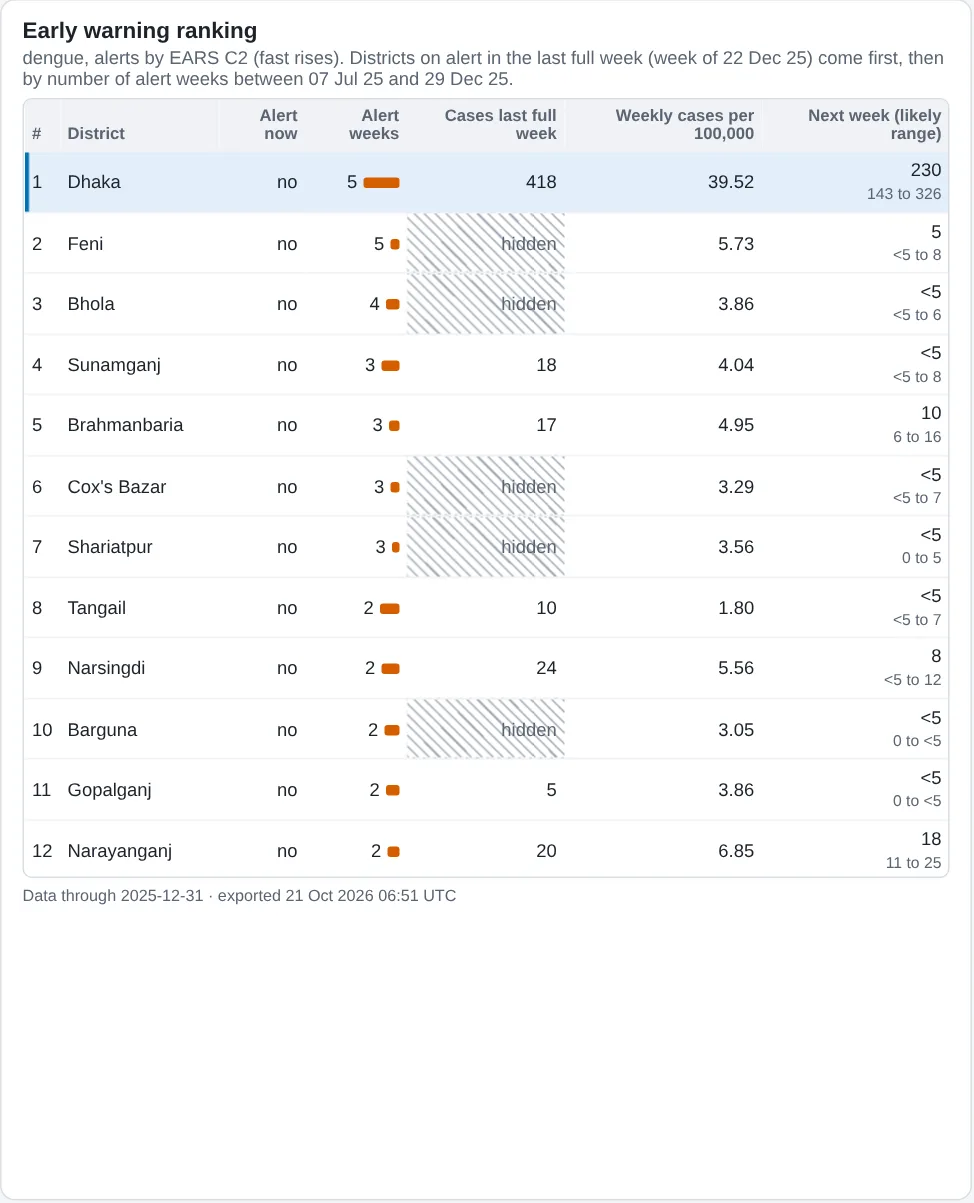
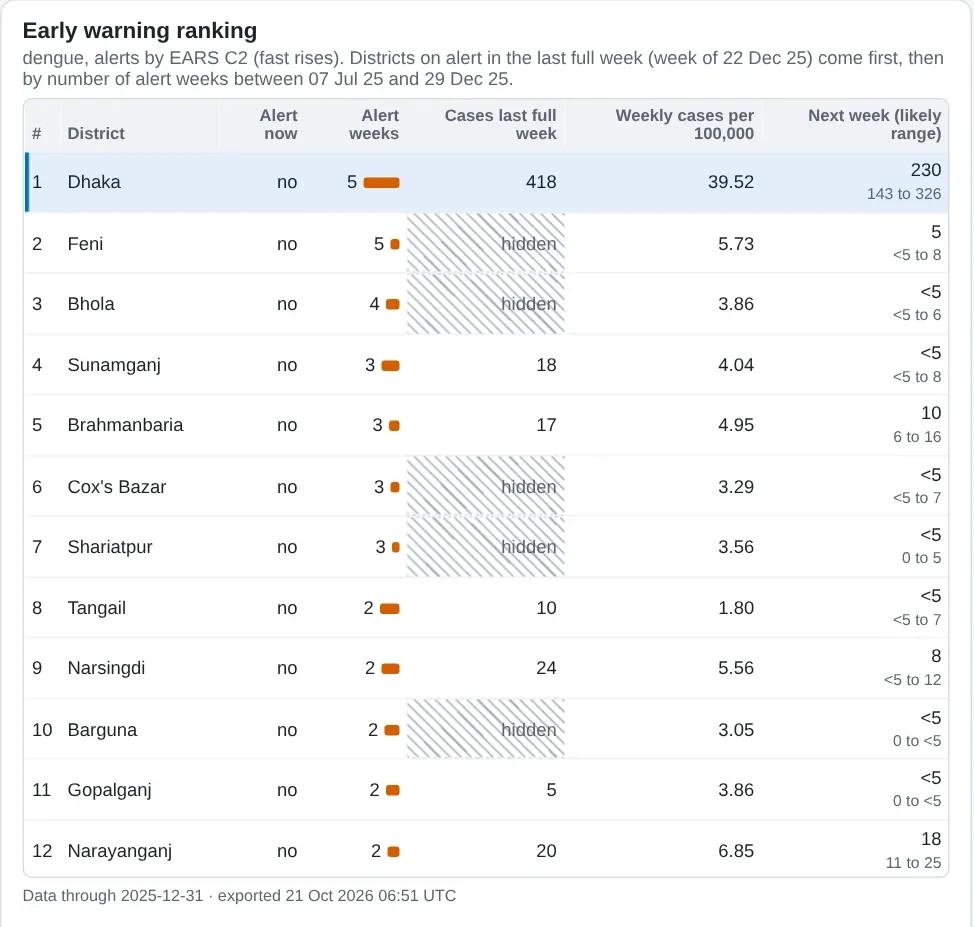
Equity floor: state that it cannot protect districts with missing reports; fit slide 26 screenshot

diff --git a/script-content.js b/script-content.js
@@ -175,9 +175,9 @@ window.EPI_SCRIPT = [
       "[SHOW click Chattogram on the map]",
       "When I click Chattogram, the weekly chart, the seasonal pattern and the allocation all switch to Chattogram.",
       "[NEXT SLIDE] [then back to the browser: drag on the lower time strip]",
-      "If I drag here, every view follows the new time range. The blue band is the forecast with its eighty percent range. We show the band, not one line, because a planner needs to know how sure we are.",
+      "If I drag here, every view follows the new time range. The blue band is the forecast with its eighty percent range. A planner needs to know how sure we are.",
       "[SHOW the hatched cells, then move the budget and alpha sliders]",
-      "Striped cells are hidden counts under five. And in the what-if panel, when I change the budget or alpha, the plan updates at once. The browser doesn't solve anything. We solved the plan ahead of time for each budget and alpha on a grid, and the page just looks up the answer.",
+      "Striped cells are hidden counts under five. And in the what-if panel, when I change the budget or alpha, the plan updates at once. The plan was solved ahead of time on a grid, and the page just looks it up.",
     ],
   },
   {
@@ -192,7 +192,7 @@ window.EPI_SCRIPT = [
     paras: [
       "[NEXT SLIDE]",
       "On privacy. Patient IDs are hashed with a secret key before anything reaches gold, and exact age becomes an age band. Every count under five is hidden. Where needed we hide a second cell too, so nobody can get the small number back by subtracting from a total.",
-      "There's a fairness risk as well. Districts with weak reporting look healthier than they are, so a pure efficiency plan would give them less. That's one reason the equity floor exists.",
+      "The equity floor gives every district a population share of what is sent, but never more than it needs. A district that shows no need gets nothing. So the floor can't protect a district whose reports are missing. That's why the pipeline marks silent weeks as missing, not zero, and the dashboard shows them as no report.",
     ],
   },
   {

diff --git a/index.html b/index.html
@@ -659,17 +659,17 @@
 
 <!-- 26 -->
 <section class="slide" data-speaker="s2" aria-label="Privacy and ethics">
-  <h2 data-in>Privacy by design, and an equity risk</h2>
+  <h2 data-in>Privacy by design, and a limit of the equity floor</h2>
   <div class="cols">
     <ul data-in>
       <li>Keyed hash for patient IDs; age in bands.</li>
       <li>Counts 1 to 4 hidden, with complementary suppression so totals cannot reveal them.</li>
       <li>k-anonymity check on published tables.</li>
-      <li>Weak reporting looks like good health. The equity floor is one guard against that.</li>
+      <li>Equity floor: a population share, never more than need. No need shown, nothing sent, so it cannot protect a district whose reports are missing. Silent weeks are marked missing, not zero.</li>
     </ul>
     <div data-in>
-      <div class="shot"><img src="assets/p-table.webp" alt="Early warning table with hatched suppressed cells"></div>
-      <p class="small">Hatched cells: suppressed counts under 5.</p>
+      <div class="shot" style="width:fit-content;margin-left:auto"><img src="assets/p-table.webp" style="max-height:560px;width:auto;max-width:100%" alt="Early warning table with hatched suppressed cells"></div>
+      <p class="small" style="text-align:right">Hatched cells: suppressed counts under 5.</p>
     </div>
   </div>
 </section>

diff --git a/REVIEW.md b/REVIEW.md
@@ -29,19 +29,19 @@ Tool: `node tools/timing.mjs 110` (and `105` for the slow case). Spoken words ex
 | 4e From forecasts to supplies | s4 | 128 | 4 | 1:13 | 12:30 |
 | 4f Preparedness calendar | s4 | 46 | 2 | 0:27 | 13:43 |
 | 2a Why the dashboard looks like this | s2 | 62 | 3 | 0:36 | 14:10 |
-| 2b Live walkthrough | s2 | 147 | 27 | 1:47 | 14:47 |
-| 2c Usability check | s2 | 58 | 2 | 0:33 | 16:34 |
-| 2d Privacy and ethics | s2 | 79 | 2 | 0:45 | 17:08 |
-| 2e Recommendations and limits | s2 | 96 | 2 | 0:54 | 17:53 |
-| 2f Close | s2 | 17 | 3 | 0:12 | 18:48 |
+| 2b Live walkthrough | s2 | 128 | 27 | 1:36 | 14:47 |
+| 2c Usability check | s2 | 58 | 2 | 0:33 | 16:24 |
+| 2d Privacy and ethics | s2 | 105 | 2 | 0:59 | 16:58 |
+| 2e Recommendations and limits | s2 | 96 | 2 | 0:54 | 17:57 |
+| 2f Close | s2 | 17 | 3 | 0:12 | 18:51 |
 
 | Speaker | Slides | Words | At 110 wpm | At 105 wpm | 4 to 5 min at 110 |
 |---|---|---:|---:|---:|---|
 | s1 Rafi | 6 (+ title) | 455 | 4:23 | 4:35 | yes |
 | s3 Shezan | 7 | 459 | 4:58 | 5:10 | yes |
 | s4 Rimjhim | 7 | 503 | 4:49 | 5:02 | yes |
-| s2 Samira | 6 (+ closing) | 459 | 4:49 | 5:01 | yes |
-| **Total** | 28 | 1,876 | **19:00** | **19:49** | limit 15:00 to 20:00 |
+| s2 Samira | 6 (+ closing) | 466 | 4:53 | 5:05 | yes |
+| **Total** | 28 | 1,883 | **19:04** | **19:53** | limit 15:00 to 20:00 |
 
 Changes made in this pass: the first draft ran 19:16 at 110 wpm and 20:05 at 105 wpm, which is over the limit
 for slow readers. Cut about 160 words, mostly repeated explanations (Shezan's transcript was written for 145
@@ -157,4 +157,11 @@ read with pdftotext). Changes:
   backtest (overall 0.84, dengue 0.89, diarrhoea 0.72; the report's per-horizon rows are not on a slide).
 
 Timing: 19:00 at 110 wpm, every speaker between 4:23 and 4:58. Shezan lost "That's my layer" to stay under 5 minutes.
+
+Equity claim (Lilith's decision, 21 Oct): slide 26 and script 2d no longer say the floor guards districts that
+report badly. With the cap at need, a district that shows no need gets nothing, so the floor cannot protect a
+district whose reports are missing; the pipeline marks silent weeks as missing, not zero
+(`analytics/detection/prepare.py`), and the dashboard shows them as "no report" (`timeseries.js`, `heatmap.js`).
+The detector does not raise an alert on a silent week, so the script does not say it does. Samira's what-if and
+band lines were shortened to keep her at 4:53.
 
